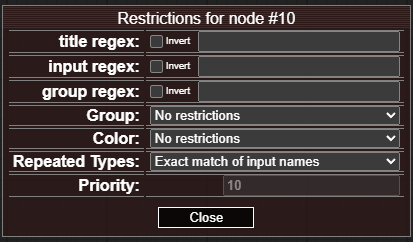
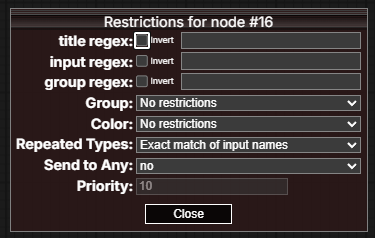
7.6 docs

diff --git a/README.md b/README.md
@@ -24,16 +24,14 @@ Yes. See Combo Clone node [here](https://github.com/chrisgoringe/cg-use-everywhe
 
 # Recent Changes
 
-If upgrading from before version 7, see the end of this document for the major changes in v7.
-
-<details>
-<summary>Changes since 7.0</summary>
-
 ## 7.6
 
 - Added visual indicators to subgraph nodes
 - Added hover-over conflicted node to show conflict
-- Added "Sen to Any" option in restrictions
+- Added "Send to Any" option in restrictions
+
+<details>
+<summary>Changes since 7.0</summary>
 
 ## 7.5
 
@@ -105,7 +103,7 @@ This is what the default wan 2.2 s2v video workflow looks like:
 # Any node broadcasting
 
 <details>
-<summary>New in version 7.4 - any node can broadcast itas outputs</summary>
+<summary>New in version 7.4 - any node can broadcast it's outputs</summary>
 
 As of version `7.4`, any node can be set to broadcast with `Add UE broadcasting` in the right-click menu. I find this really helpful for subgraphs especially.
 
@@ -127,17 +125,6 @@ The key to using Anything Everywhere nodes is understanding where the data will 
 
 By default the data will be sent to any input of the same data type which does not have a connection, 
 and does not have a widget providing the value.
-
-<details>
-<summary>
-At the receiving end: you can specify that an input should not accept data, or that one with a widget should.
-</summary>
-
-In the `UE Connectable Inputs` menu (right-click on a node): 
-the green bar indicates an input is connectable. The `Reject UE links` option can be used to make this node completely reject UE links, regardless of other settings.
-
-![uec](docs/connectable.png)
-</details>
 
 <details>
 <summary>
@@ -164,12 +151,21 @@ either the name of the input slot on the target node, or the name of the target 
 The `match start` and `match end` options require that the input names match from the start (or end) for the full length of the shorter: 
 so you can match `seed` to `seed` or `noise_seed` by naming the `Anything Everywhere` input `seed` and selecting `Match end of input names`.
 
+`Send To Any`(default 'no') can be used to allow this node to send data to inputs with the `Any` type. 
+
 You can rename input slots by right-clicking on the input dot - but you can't rename widget inputs - this is a limitation imposed by ComfyUI ([discussion](https://github.com/Comfy-Org/ComfyUI_frontend/issues/3654)). The work-around is to rename the target node (or use multiple `Anything Everywhere` nodes with other constraints, especially color matching).
 
-`String to Combos` (default `no`) can be used to allow a `STRING` input to be sent to a `COMBO` widget. Since there may be a lot of combo widgets, this should be used with care - you will almost certainly want to use other restrictions (such as an `input regex`, or the `Repeated Types` constraint with multiple strings (eg `sampler_name` and `scheduler`)). *No validation takes place* to ensure that the string sent is one of the combo options!
+</details>
 
-You are probably better off using the `Combo Clone` [helper node](#special-case-nodes)
+<details>
+<summary>
+At the receiving end: you can specify that an input should not accept data, or that one with a widget should.
+</summary>
 
+In the `UE Connectable Inputs` menu (right-click on a node): 
+the green bar indicates an input is connectable. The `Reject UE links` option can be used to make this node completely reject UE links, regardless of other settings.
+
+![uec](docs/connectable.png)
 </details>
 
 <details>
@@ -181,7 +177,10 @@ Each node has an automatically calculated priority - in general the more restric
 You can see this prority in the restrictions dialog, and you can choose to replace the automatically calculated value if you wish.
 
 If two more more `Anything Everywhere` nodes match the same input, the higher priority node is used. If there is a tie, _no connection is made_.
-When there is a tie, if you right-click on the canvas you will find an option to show which nodes are the problem.
+The input is marked with a red cross to indicate that there is a conflict. If you hover over the node, the two (or more) conflicting UE inputs
+are shown as red lines.
+
+Alternatively, if you right-click on the canvas you will find an option to show which nodes are the problem.
 
 </details>
 
